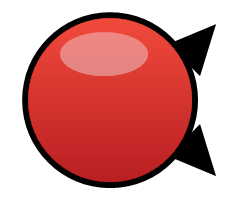
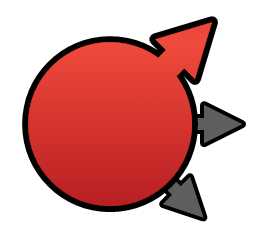
UVS: speed badge arrows show the attack zone, like the print
The badge now has three arrows (up-right, right, down-right): the zone's one
large and in the zone color, the other two small grey arrowheads. Badge and
rim boxes grow to 136 x 124 and move up 12 units so the circle stays put;
the rim is per zone. Shield tabs were checked and already matched.

TEST ATTACK reference hash regenerated (intended render change).

diff --git a/ROADMAP.md b/ROADMAP.md
@@ -40,6 +40,7 @@ community-maintained version that the M15 template pack is built for. That versi
 | 2026-11-12 | Magic text no longer runs under the P/T box. Two parts: (1) the text engine (`TextViewer::lineRight`) now checks the mask over a line's whole height, not just its top row, so a notch that starts partway down a line is seen; (2) `make-slim-data.ps1` gives the M15 and etched-foil text boxes a mask (`tools/patches/m15-text-pt-mask.png`) that blocks the P/T corner when the card has a P/T. A permanent fix instead of shortening flavor text per card. The engine part also improved planeswalker (loyalty box) and UVS (number notch) wrapping, so two reference hashes were regenerated. |
 | 2026-11-12 | P/T fix extended to borderless (altered), adventure and DFC (both faces), and all five frames now share one approach: a card-sized mask (two faces wide), cropped by each text box from its own `card_style.<field>` position and size, so scripted and chopped boxes still line up. Needed two engine fixes: `Style::update` now runs the mask script after the box's final size is worked out (it read a stale height for boxes given a `bottom`), and `AlphaMask` row right edges are one past the last white pixel (upstream made every masked box 1 px narrow, which wrapped a line that fit without a mask). DFC fronts also keep clear of the hovering back-face P/T. |
 | 2026-11-12 | UVS stat digits come from the real FT01 cards instead of being drawn with Figtree. The study showed the real digits are taller (130 units with outline), carry speed-line texture and a white inner line, and sit a few units off where we had them. The images are cut once by `tools/uvs-study/make_digits.py` (it needs the git-ignored scans) and committed; `make-uvs-assets.ps1` no longer draws digits, so rerunning it cannot overwrite them. 9, X and * never appear on real cards, so 9 is the 6 turned over and X/* are Figtree drawn with the real layers. |
+| 2026-11-12 | UVS speed badge redrawn after the FT01 and TK802 cuts: three arrows (up-right, right, down-right), the zone's one large and in the zone color, the other two small grey arrowheads. The old badge had two fixed black tips, so it did not show the zone at all. The arrows reach past the old 116 x 100 box, so the badge and rim boxes are now 136 x 124, moved up 12 units so the circle (and the speed number on it) stays where it was. The rim is per zone (`speed-rim-<zone>.png`) so it hugs the small grey arrows. Shield tabs were checked and already matched. |
 
 ## Phase 0: Baseline
 
@@ -130,7 +131,8 @@ copies 11 packages (180 MB, including the English spell-check dictionary):
 - [ ] Token
 - [x] Study of 3,816 real cards, their text and the How to Play guide: layout, official badge cuts, game rules and balance tables (`claude/uvs-study.md`, scripts in `tools/uvs-study/`, material in git-ignored `study/`)
 - [x] Stat digits are the official FT01 glyphs (`tools/uvs-study/make_digits.py`): real fill, white line and outline for 0-8, 9 from the 6 turned over, X and * drawn to match; check digits get the real blue gradient. Boxes moved to the real glyph spots (130 x 160 at 24,10 and 586.5,807.5)
-- [ ] Check shield tabs and speed arrows against the cuts (study section 6)
+- [x] Check shield tabs and speed arrows against the cuts (study section 6): shields already matched; speed badges redrawn (zone arrow in the zone color, grey arrowheads on the other two directions)
+- [ ] Damage starburst with uneven points like the print (optional)
 - [ ] Holo mask export for rare cards (the user prints on a proxy site and wants holo on some rares)
 - [ ] Keyword boxes in rules text (`QUEST: 1`, `ECHO`, `STUN: 2`), zone icons
 - [ ] `uvs-2026-arena.mse-style` (landscape); B sides are done (face field, number suffix)

diff --git a/claude/uvs-study.md b/claude/uvs-study.md
@@ -42,8 +42,8 @@ Method (`tools/uvs-study/extract_by_value.py`, then `clean.py`): group cards who
 What the cuts show that the template does not do yet:
 - **The stat numbers change typeface per set.** FT01, SF62X and KF0X share a rounded heavy italic (the house default). TK802 uses a squared Tekken face, GDZ01 a splattered one, TMNT01 a graffiti one. So "per-set number fonts" on the roadmap is real, and the default style should copy FT01.
 - The digits are not flat gradients: they carry fine speed lines (difficulty) or highlights (check). Our `num-d-*.png` and `num-c-*.png` are flat. The FT01 cuts can replace them directly, since the template already draws numbers as images.
-- **The shield's `+` tab marks the zone**: `+` in the top slot (high), middle (mid) or bottom slot inside a yellow box (low). Our shields should match the cuts.
-- Speed arrow direction encodes the zone (see the table). Check `speed-*.png` against the cuts.
+- **The shield's `+` tab marks the zone**: the zone's slot (top high, middle mid, bottom low) is filled with the zone color and holds a white `+`. Checked 2026-11-12: our shields already match.
+- Speed arrow direction encodes the zone (see the table). Redrawn 2026-11-12 to match: big zone-colored arrow toward the zone, grey arrowheads on the other two.
 - Known bad cuts: GDZ01 speed circles (only the digit survived), FT01 damage 4 (cleanup kept the wrong piece). Some FT01 cuts carry a scrap of the black ink border; crop before use.
 - Not cut: ability label boxes (they move with the text) and inline icons. The resource symbols already come from the How to Play vector page.
 
@@ -112,6 +112,6 @@ Characters have 2 or 3 symbols (98%), one or two traits, and usually 2 abilities
 ## 6. What this means for the template (proposed next steps)
 
 1. Done 2026-11-12: the digits are the FT01 glyphs (`tools/uvs-study/make_digits.py`).
-2. Check shields (zone tab), speed (arrow direction) and damage against the cuts; redraw where they differ.
+2. Done 2026-11-12: shields matched already; speed badges redrawn with the zone arrow. Damage still differs a little (the print's starburst has uneven points; ours is a regular 12-point star).
 3. Per-set number styles as a Set info option, starting with the TK802 squared face (cuts already exist).
 4. Optional: a "balance hint" in `/card` that warns when an attack's speed + damage is far off the table above.

diff --git a/claude/uvs-template.md b/claude/uvs-template.md
@@ -75,7 +75,7 @@ The text box tint shows the card type.
   - The outer rim is the type color.
 - **Check** (bottom-right, about x 80-98%, y 80-92%): a big italic number with a light-blue-to-blue gradient and a dark outline, in a rim of the type color.
 - **Attack only:** these two stack on the right edge of the text box, above the check.
-  - **Speed** is in a circle filled with the attack zone color, with an arrow notch pointing out.
+  - **Speed** is in a circle filled with the attack zone color, with three arrows on its right (up-right, right, down-right). The one toward the attack zone is large and in the zone color; the other two are small grey arrowheads.
   - **Damage** is in a yellow starburst.
 - **Backup:** **stamina** in a green heart on the right edge of the text box.
 - **Character:**
